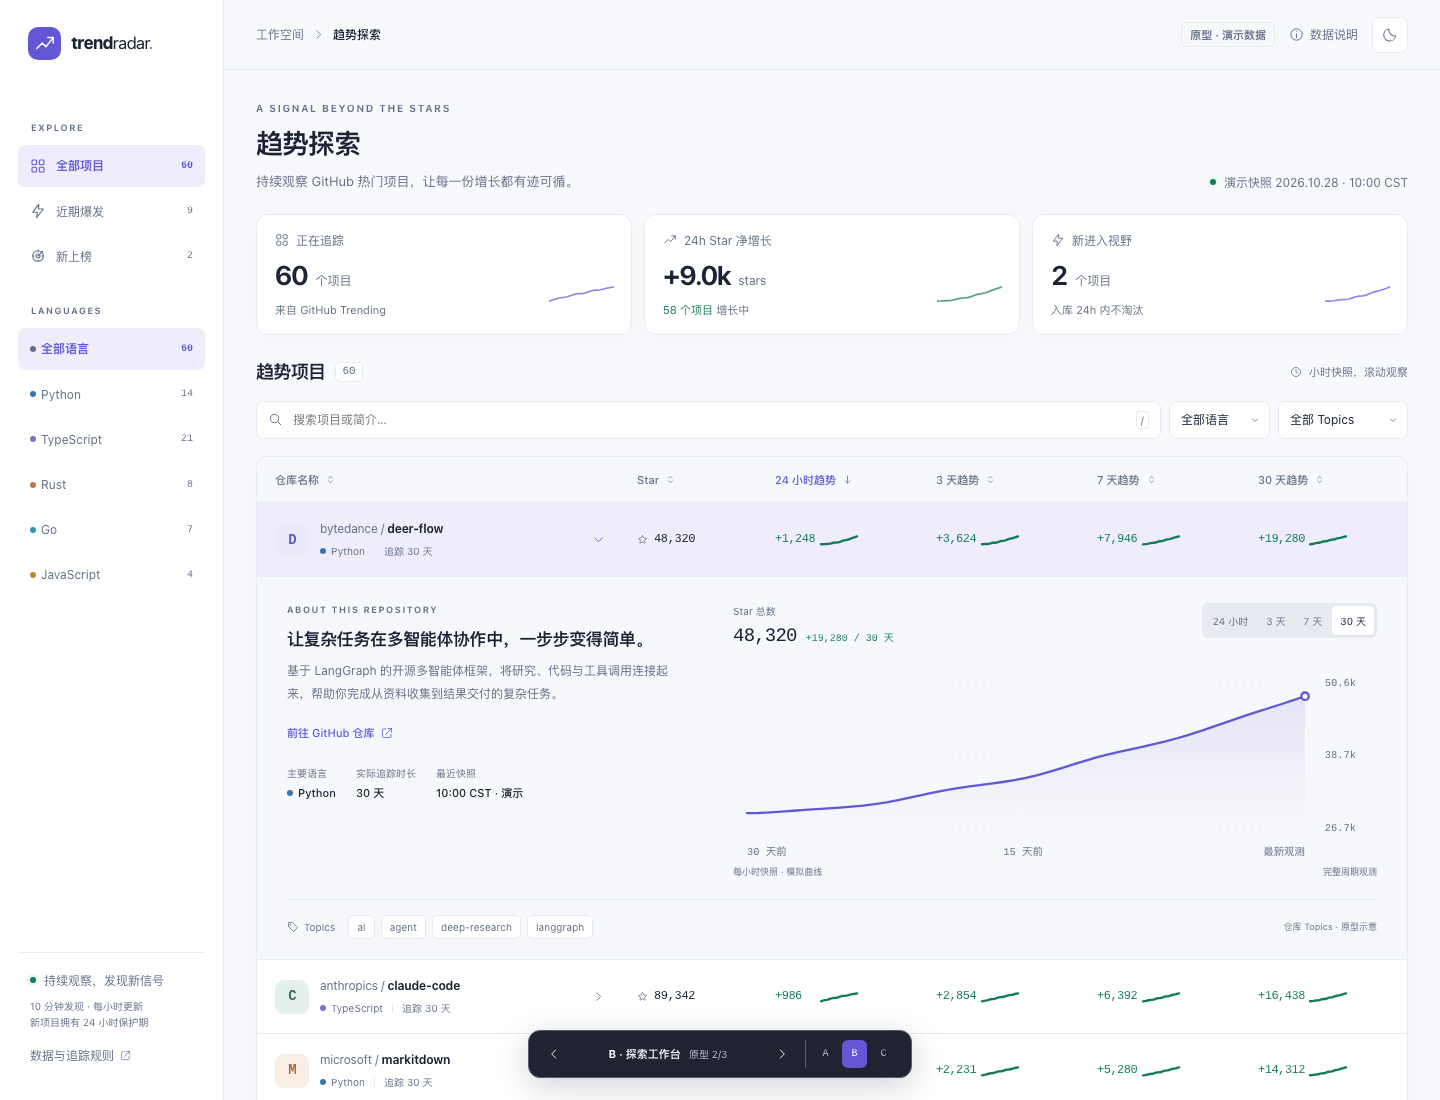
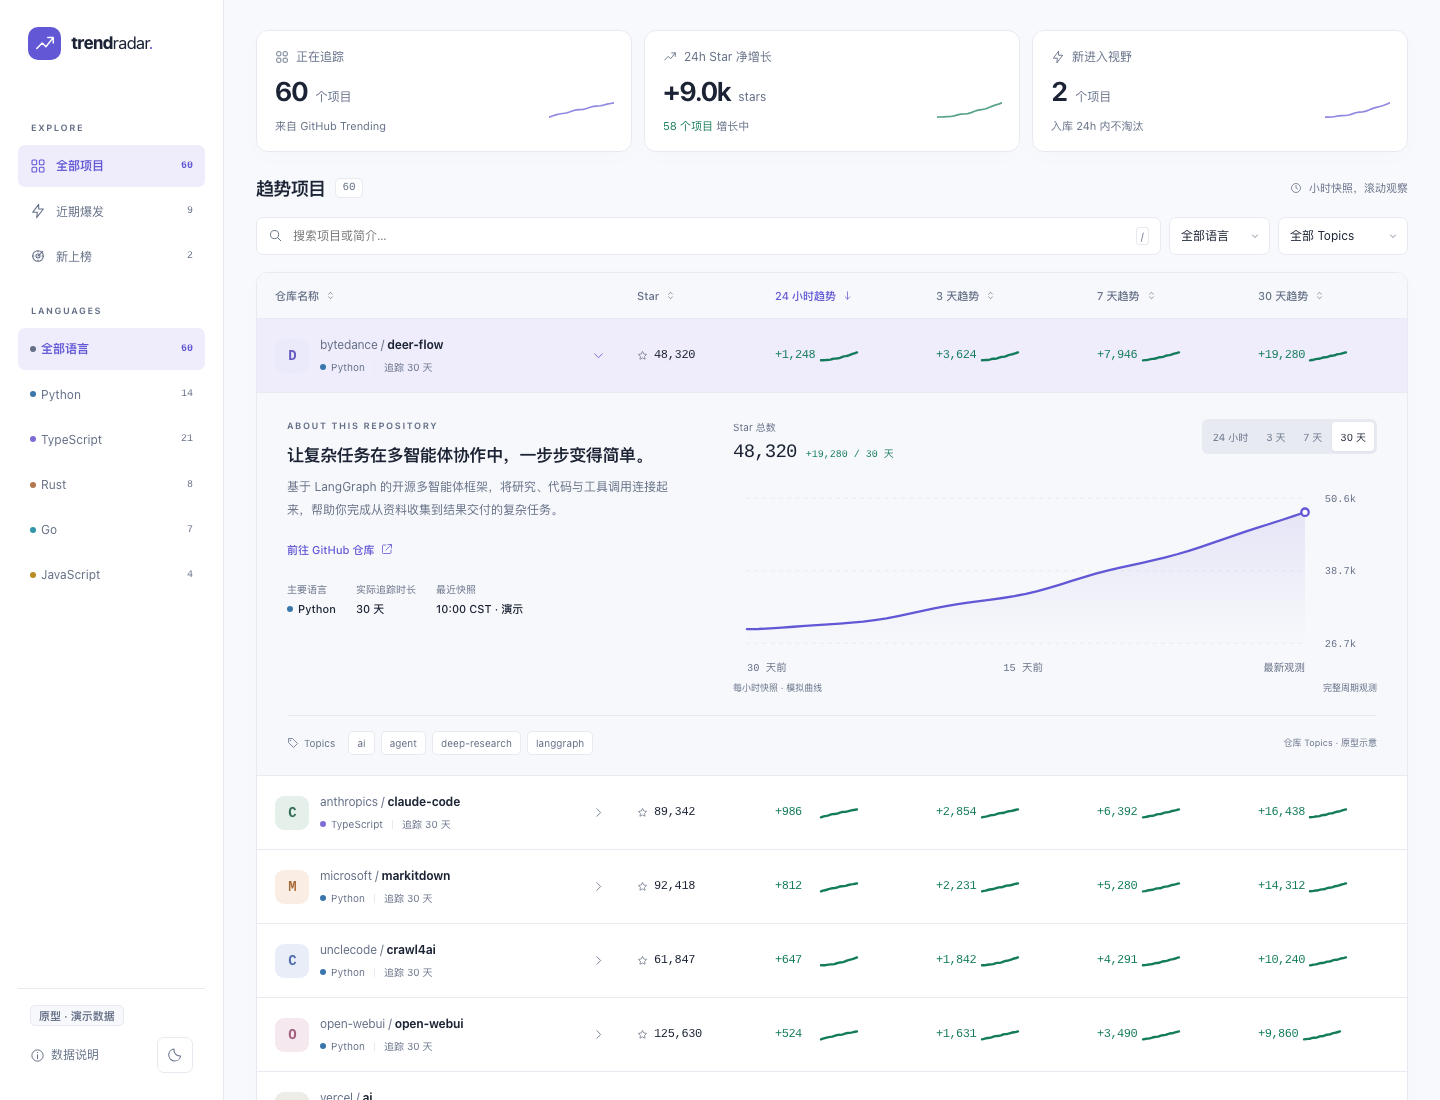
prototype: select workspace layout and move controls to sidebar footer

diff --git a/prototype/trends/app.js b/prototype/trends/app.js
@@ -94,7 +94,7 @@ const catalog = [
   ['community-labs/next-wave','TypeScript','下一波新项目，正在积累第一段趋势。','用于预览新入库状态的虚构示例仓库。它只有一个快照，因此尚不能计算净增量。',['agent','typescript'],128,[null,null,null,null],0.3],
 ];
 const repositories = catalog.map(([id,language,tagline,description,topics,stars,gains,age],index) => ({id,language,tagline,description,topics,stars,gains,age,index,avatar:palettes[index%palettes.length]}));
-const state = { variant:['A','B','C'].includes(new URLSearchParams(location.search).get('variant'))?new URLSearchParams(location.search).get('variant'):'A', theme:'light', view:'all', search:'', language:'', topic:'', sort:'trend0', direction:-1, page:1, expanded:repositories[0].id, period:3 };
+const state = { variant:['A','B','C'].includes(new URLSearchParams(location.search).get('variant'))?new URLSearchParams(location.search).get('variant'):'B', theme:'light', view:'all', search:'', language:'', topic:'', sort:'trend0', direction:-1, page:1, expanded:repositories[0].id, period:3 };
 const app = document.getElementById('app');
 const stamp = '2026.10.28 · 10:00 CST';
 
@@ -134,12 +134,13 @@ function results() { const rows=filtered();const pages=Math.max(1,Math.ceil(rows
 function resultsArea() { return `<section id="results" aria-labelledby="list-title"><div class="section-heading"><div class="section-title"><h2 id="list-title">${state.variant==='C'?'所有值得追踪的变化':'趋势项目'}</h2><span class="count-pill" id="project-count">${filtered().length}</span></div><span class="section-caption">${icon('clock',12)}小时快照，滚动观察</span></div>${filterbar()}<div id="results-content">${results()}</div></section>`; }
 function footer() { return '<footer class="footer-note"><span>源于 GitHub Trending，关注增长的每一步。</span><span>演示数据 · 每 10 分钟发现 · 每小时采样 · 最多 30 天历史</span></footer>'; }
 function VariantA() { return `<div class="classic">${header()}<main class="container page-main">${intro()}${metrics()}${resultsArea()}${footer()}</main></div>`; }
-function sidebar() { return `<aside class="sidebar" aria-label="趋势探索筛选">${brand()}<span class="eyebrow">EXPLORE</span>${[['all','grid','全部项目'],['hot','bolt','近期爆发'],['new','radar','新上榜']].map(([key,glyph,label])=>`<button class="sidebar-view ${state.view===key?'active':''}" data-view="${key}" aria-pressed="${state.view===key}">${icon(glyph,16)}${label}<span>${viewCount(key)}</span></button>`).join('')}<span class="eyebrow">LANGUAGES</span>${['','Python','TypeScript','Rust','Go','JavaScript'].map(language=>`<button class="sidebar-language ${state.language===language?'active':''}" data-language="${language}" aria-pressed="${state.language===language}"><span class="language"><i style="--language-color:${colors[language]||'var(--muted)'}"></i>${language||'全部语言'}</span><span>${repositories.filter(r=>!language||r.language===language).length}</span></button>`).join('')}<div class="sidebar-footer"><span class="freshness"><span class="status-dot"></span>持续观察，发现新信号</span><p>10 分钟发现 · 每小时更新<br>新项目拥有 24 小时保护期</p><button class="text-button" data-action="about">数据与追踪规则 ${icon('external',11)}</button></div></aside>`; }
-function VariantB() { return `<div class="workspace">${sidebar()}<div class="workspace-content">${header(true)}<main class="container page-main">${intro('B')}${metrics()}${resultsArea()}${footer()}</main></div></div>`; }
+function sidebar() { return `<aside class="sidebar" aria-label="趋势探索筛选">${brand()}<span class="eyebrow">EXPLORE</span>${[['all','grid','全部项目'],['hot','bolt','近期爆发'],['new','radar','新上榜']].map(([key,glyph,label])=>`<button class="sidebar-view ${state.view===key?'active':''}" data-view="${key}" aria-pressed="${state.view===key}">${icon(glyph,16)}${label}<span>${viewCount(key)}</span></button>`).join('')}<span class="eyebrow">LANGUAGES</span>${['','Python','TypeScript','Rust','Go','JavaScript'].map(language=>`<button class="sidebar-language ${state.language===language?'active':''}" data-language="${language}" aria-pressed="${state.language===language}"><span class="language"><i style="--language-color:${colors[language]||'var(--muted)'}"></i>${language||'全部语言'}</span><span>${repositories.filter(r=>!language||r.language===language).length}</span></button>`).join('')}<div class="sidebar-footer"><span class="demo-tag">原型 · 演示数据</span><div class="sidebar-actions">${workspaceActions()}</div></div></aside>`; }
+function workspaceActions() { return `<button class="text-button" data-action="about" aria-label="数据说明">${icon('info',15)}数据说明</button><button class="icon-button" data-action="theme" aria-label="切换${state.theme==='light'?'深':'浅'}色模式" title="切换${state.theme==='light'?'深':'浅'}色模式">${icon(state.theme==='light'?'moon':'sun',16)}</button>`; }
+function VariantB() { return `<div class="workspace">${sidebar()}<div class="workspace-content"><main class="container page-main"><h1 class="sr-only">GitHub 趋势探索</h1>${metrics()}${resultsArea()}${footer()}</main></div><div class="workspace-mobile-actions">${workspaceActions()}<span class="demo-tag">演示数据</span></div></div>`; }
 function spotlights() { return `<section class="spotlights" aria-label="编辑式热点速览">${[[0,'今日增长领跑','bolt'],[1,'持续获得关注','trend'],[11,'刚刚进入视野','radar']].map(([index,label,glyph])=>{const repo=repositories[index];return `<button class="spotlight" data-spotlight="${repo.id}" aria-label="查看 ${repo.id} 的详情"><span class="spotlight-label">${icon(glyph,12)}${label}</span><h3>${repo.id.split('/')[1]}</h3><p>${repo.tagline}</p><div class="spotlight-stat"><div><strong>${signed(repo.gains[0])}</strong><small>/ ${repo.age<24?'部分观测':'24 小时'}</small></div>${spark(repo,0,true)}</div></button>`;}).join('')}</section>`; }
 function VariantC() { return `<div class="editorial">${header()}<main class="container page-main">${intro('C')}${spotlights()}${resultsArea()}${footer()}</main></div>`; }
 function render() { document.documentElement.dataset.theme=state.theme;app.innerHTML=({A:VariantA,B:VariantB,C:VariantC})[state.variant]();renderSwitcher(); }
-function renderSwitcher() { document.getElementById('prototype-controls').innerHTML=`<nav class="prototype-switcher" aria-label="原型设计方向切换"><button data-variant-step="-1" aria-label="上一个设计方向">${icon('left',14)}</button><div class="variant-label"><b>${state.variant} · ${{A:'精简表格',B:'探索工作台',C:'热点观察刊'}[state.variant]}</b><span>原型 ${['A','B','C'].indexOf(state.variant)+1}/3</span></div><button data-variant-step="1" aria-label="下一个设计方向">${icon('right',14)}</button><div class="variant-dots">${['A','B','C'].map(v=>`<button data-variant="${v}" class="${v===state.variant?'active':''}" aria-label="设计方向 ${v}" aria-pressed="${v===state.variant}">${v}</button>`).join('')}</div></nav>`; }
+function renderSwitcher() { if(state.variant==='B'){document.getElementById('prototype-controls').innerHTML='';return;} document.getElementById('prototype-controls').innerHTML=`<nav class="prototype-switcher" aria-label="原型设计方向切换"><button data-variant-step="-1" aria-label="上一个设计方向">${icon('left',14)}</button><div class="variant-label"><b>${state.variant} · ${{A:'精简表格',B:'探索工作台',C:'热点观察刊'}[state.variant]}</b><span>原型 ${['A','B','C'].indexOf(state.variant)+1}/3</span></div><button data-variant-step="1" aria-label="下一个设计方向">${icon('right',14)}</button><div class="variant-dots">${['A','B','C'].map(v=>`<button data-variant="${v}" class="${v===state.variant?'active':''}" aria-label="设计方向 ${v}" aria-pressed="${v===state.variant}">${v}</button>`).join('')}</div></nav>`; }
 function updateResults() { document.getElementById('results-content').innerHTML=results();document.getElementById('project-count').textContent=filtered().length;document.getElementById('announcer').textContent=`找到 ${filtered().length} 个项目`; }
 function switchVariant(value) { state.variant=value;const url=new URL(location.href);url.searchParams.set('variant',value);history.replaceState(null,'',url);render();window.scrollTo({top:0});document.getElementById('announcer').textContent=`设计方向 ${value}，${{A:'精简表格',B:'探索工作台',C:'热点观察刊'}[value]}。${filtered().length} 个项目，当前${state.theme==='light'?'浅':'深'}色模式。`; }
 function reset() { Object.assign(state,{search:'',language:'',topic:'',view:'all',page:1});render(); }
@@ -147,7 +148,7 @@ document.addEventListener('click', event => {
   const button=event.target.closest('button');if(!button)return;
   const data=button.dataset;
   if(data.action==='about')document.getElementById('about-dialog').showModal();
-  if(data.action==='theme'){state.theme=state.theme==='light'?'dark':'light';render();document.querySelector('[data-action=theme]').focus({preventScroll:true});}
+  if(data.action==='theme'){state.theme=state.theme==='light'?'dark':'light';render();Array.from(document.querySelectorAll('[data-action=theme]')).find(button=>button.checkVisibility())?.focus({preventScroll:true});}
   if(data.action==='reset')reset();
   if(data.view){state.view=data.view;state.page=1;render();document.querySelector(`[data-view=${state.view}]`).focus({preventScroll:true});}
   if(data.language!==undefined){state.language=data.language;state.page=1;render();}
@@ -167,7 +168,7 @@ document.addEventListener('keydown',event=>{
   if(event.ctrlKey||event.metaKey||event.altKey)return;
   if(event.target.closest('input,textarea,select,[contenteditable="true"],[role="slider"]'))return;
   if(event.key==='/'){event.preventDefault();document.getElementById('search').focus();}
-  if(['ArrowLeft','ArrowRight'].includes(event.key)){event.preventDefault();const values=['A','B','C'];switchVariant(values[(values.indexOf(state.variant)+(event.key==='ArrowRight'?1:2))%3]);}
+  if(state.variant!=='B'&&['ArrowLeft','ArrowRight'].includes(event.key)){event.preventDefault();const values=['A','B','C'];switchVariant(values[(values.indexOf(state.variant)+(event.key==='ArrowRight'?1:2))%3]);}
 });
-window.addEventListener('popstate',()=>{state.variant=new URLSearchParams(location.search).get('variant')||'A';if(!['A','B','C'].includes(state.variant))state.variant='A';render();});
+window.addEventListener('popstate',()=>{state.variant=new URLSearchParams(location.search).get('variant')||'B';if(!['A','B','C'].includes(state.variant))state.variant='B';render();});
 render();

diff --git a/prototype/trends/style.css b/prototype/trends/style.css
@@ -185,13 +185,11 @@
   .sidebar-view span,.sidebar-language span:last-child { margin-left:auto; font-size:10px; font-family:var(--mono); }
   .sidebar-view.active,.sidebar-language.active { background:var(--accent-soft); color:var(--accent); font-weight:550; }
   .sidebar-footer { margin-top:auto; padding:18px 12px 0; border-top:1px solid var(--line); color:var(--muted); font-size:10px; }
-  .sidebar-footer p { margin:8px 0; }
+  .sidebar-actions { display:flex; align-items:center; justify-content:space-between; gap:12px; margin-top:12px; }
+  .workspace-mobile-actions { display:none; }
   .workspace-content { min-width:0; }
-  .workspace .topbar { height:70px; background:var(--bg); }
   .workspace .container { padding:0 32px; }
-  .workspace .topbar-inner { gap:8px; font-size:12px; color:var(--muted); }
   .workspace .page-main { padding-top:30px; }
-  .workspace .intro { margin-bottom:22px; }
   .workspace h1 { font-size:27px; }
   .workspace .metrics { gap:12px; margin-bottom:25px; }
   .workspace .metric { padding:16px 18px; }
@@ -251,6 +249,13 @@
     .intro { display:block; margin-bottom:22px; } h1,.workspace h1 { font-size:27px; } .intro p { font-size:12px; margin-top:8px; max-width:290px; } .intro .eyebrow { font-size:9px; } .freshness { margin-top:14px; font-size:10px; } .metrics { gap:0; border:1px solid var(--line); border-radius:9px; overflow:hidden; margin-bottom:25px; background:var(--surface); } .metric,.workspace .metric { padding:13px 12px; border:0; border-right:1px solid var(--line); border-radius:0; box-shadow:none; background:transparent; } .metric:last-child { border:0; } .metric-label { font-size:10px; gap:4px; } .metric-label svg { display:none; } .metric-value,.workspace .metric-value { font-size:23px; margin-top:5px; letter-spacing:-.9px; } .metric-value small { font-size:9px; margin-left:4px; } .metric-foot { font-size:9px; margin-top:5px; } .metric-art { display:none; } .section-heading h2 { font-size:17px; } .section-heading { margin-bottom:13px; } .filterbar { display:flex; gap:12px; margin-bottom:14px; } .segmented { width:100%; justify-content:stretch; } .segmented button { flex:1; font-size:11px; min-height:36px; padding-inline:8px; } .segmented button span { font-size:9px; } .filter-fields { width:100%; flex-wrap:wrap; gap:8px; } .search-box { width:100%; flex-basis:100%; height:42px; } .search-box input { font-size:16px; } .search-box kbd { display:none; } .select-wrap { flex:1; } .select-wrap select { width:100%; max-width:none; font-size:12px; height:40px; } .select-wrap svg { top:14px; }
     .repo-table,.repo-table tbody { display:block; } .repo-table colgroup,.repo-table thead { display:none; } .repo-table .repo-row { display:grid; grid-template-columns:repeat(4,minmax(0,1fr)); padding:17px 15px 14px; gap:12px 8px; border-bottom:1px solid var(--line); } .repo-table .repo-row td { border:0; padding:0!important; display:block; min-width:0; } .repo-row td:first-child { grid-column:1 / 4; } .repo-row td:nth-child(2) { text-align:right; align-self:center; } .repo-row td:nth-child(n+3)::before { content:attr(data-label); display:block; color:var(--muted); font-size:9px; margin-bottom:4px; } .repo-name { font-size:12px; } .repo-avatar { width:30px; height:30px; font-size:12px; border-radius:7px; } .repo-identity { gap:8px; } .repo-subline { font-size:9px; gap:6px; margin-top:3px; } .expand-button { width:25px; min-width:25px; height:38px; } .star-number { justify-content:end; font-size:11px; gap:4px; } .star-number svg { width:10px; } .trend-number { font-size:11px; min-width:0; } .trend { gap:5px; } .trend svg,.workspace .trend svg { width:29px; height:18px; } .partial-note { font-size:8px; } .repo-table .detail-row { display:block; } .detail-row td { display:block; } .details { padding:21px 16px 17px; } .detail-grid,.workspace .detail-grid { display:grid; grid-template-columns:1fr; gap:24px; } .detail-description h3 { font-size:16px; } .detail-description p { font-size:12px; max-width:none; } .detail-meta { margin-top:12px; } .detail-link { margin-top:10px; min-height:32px; } .chart-tabs button { padding-inline:7px; min-height:33px; } .topics { gap:6px; margin-top:15px; padding-top:14px; } .topic { padding:5px 8px; min-height:29px; } .topics-origin { flex-basis:100%; margin-top:3px; } .pagination { padding:14px 15px; font-size:10px; flex-wrap:wrap; } .pages button { min-width:32px; height:34px; } .footer-note { flex-direction:column; gap:4px; font-size:9px; } .prototype-switcher { bottom:max(14px,env(safe-area-inset-bottom)); padding:5px; border-radius:10px; } .variant-label { min-width:142px; font-size:10px; gap:5px; } .variant-label span { font-size:9px; } .variant-dots { padding-inline:5px; } .variant-dots button { width:22px; } .prototype-switcher button { min-height:34px; } .variant-dots button { min-height:30px; } .workspace .metrics { gap:0; } .editorial .intro { position:relative; padding-bottom:22px; } .editorial .intro h1 { font-size:32px; max-width:270px; letter-spacing:-1px; } .editorial .intro p { max-width:240px; } .edition { position:absolute; right:0; top:20px; } .edition strong { font-size:36px; } .edition span { font-size:8px; } .spotlights { display:grid; grid-template-columns:1fr; margin-bottom:24px; } .spotlight,.spotlight:first-child { padding:14px 0; display:grid; grid-template-columns:1fr 120px; gap:3px 10px; border:0; border-bottom:1px solid var(--line); } .spotlight:last-child { border-bottom:0; } .spotlight-label { grid-column:1; font-size:9px; } .spotlight h3 { grid-column:1; margin:2px 0; font-size:15px; } .spotlight p { grid-column:1; font-size:10px; margin:0; } .spotlight-stat { grid-column:2; grid-row:1 / 4; flex-direction:column; align-items:end; justify-content:center; } .spotlight-stat strong { font-size:21px; } .spotlight-stat svg { width:80px; height:23px; } .spotlight-stat small { display:none; } dialog { padding:28px 23px; } .active-filters { font-size:11px; }
   }
-  @media(max-width:680px) { .repo-row .trend { flex-direction:column; align-items:flex-start; gap:2px; } .repo-row .trend svg,.workspace .repo-row .trend svg { width:44px; height:14px; } }
+  @media(max-width:680px) { .repo-row .trend { flex-direction:column; align-items:flex-start; gap:2px; } .repo-row .trend svg,.workspace .repo-row .trend svg { width:44px; height:14px; } .workspace .chart-header { flex-direction:column; align-items:stretch; } .workspace .chart-tabs { align-self:flex-start; } .workspace .chart-tabs button { min-width:52px; white-space:nowrap; } }
+  @media(max-width:900px) {
+    .workspace-mobile-actions { display:flex; align-items:center; gap:12px; position:fixed; z-index:25; left:18px; bottom:max(14px,env(safe-area-inset-bottom)); padding:6px 10px; border:1px solid var(--line); border-radius:10px; background:var(--surface); box-shadow:0 4px 20px #00000012; }
+    .workspace-mobile-actions .text-button,.workspace-mobile-actions .icon-button { min-height:44px; }
+    .workspace-mobile-actions .icon-button { width:44px; }
+    .workspace-mobile-actions .demo-tag { font-size:9px; }
+    .workspace button,.workspace input,.workspace select,.workspace a { scroll-margin-bottom:100px; }
+  }
   @media(prefers-reduced-motion:reduce) { *,*::before,*::after { scroll-behavior:auto!important; animation:none!important; transition:none!important; } }
 }

diff --git a/prototype/README.md b/prototype/README.md
@@ -1,6 +1,6 @@
 # GitHub 趋势追踪 · UI 原型
 
-本原型用于比较三种页面结构，所有数值、趋势和状态均为演示数据，不调用外部数据源、不持久保存操作。尚未选定最终设计。
+已选定 B 版探索工作台：移除顶部面包屑、标题与介绍区，直接从数据概览开始；数据说明和主题切换放在左侧栏底部。手机端在左下角提供相同入口。所有数值、趋势和状态均为演示数据，不调用外部数据源、不持久保存操作。
 
 在仓库根目录运行 `npm run prototype`，打开 http://127.0.0.1:4173/prototype/trends/ 。无需安装依赖。
 
@@ -8,7 +8,7 @@
 - `?variant=B`：探索工作台；固定筛选侧栏与紧凑内容区。
 - `?variant=C`：热点观察刊；先看热点速览，再查看完整榜单。
 
-底部工具条或左右方向键切换设计。搜索框内不拦截方向键。三个方向共用搜索、语言/Topics 筛选、排序、50 项分页、手风琴、图表周期切换、浅深色主题。主题与筛选只保留在当前页面内存中。
+默认打开已选定的 B 版，并移除其设计切换工具条。A、C 保留为历史参考，可通过 URL 访问。三个方向共用搜索、语言/Topics 筛选、排序、50 项分页、手风琴、图表周期切换、浅深色主题。主题与筛选只保留在当前页面内存中。
 
 使用 Node.js 启动。可通过 `PROTOTYPE_PORT` 指定端口。`NODE_ENV=production` 时隐藏原型切换工具条。此原型不作为正式产品直接部署。
 
